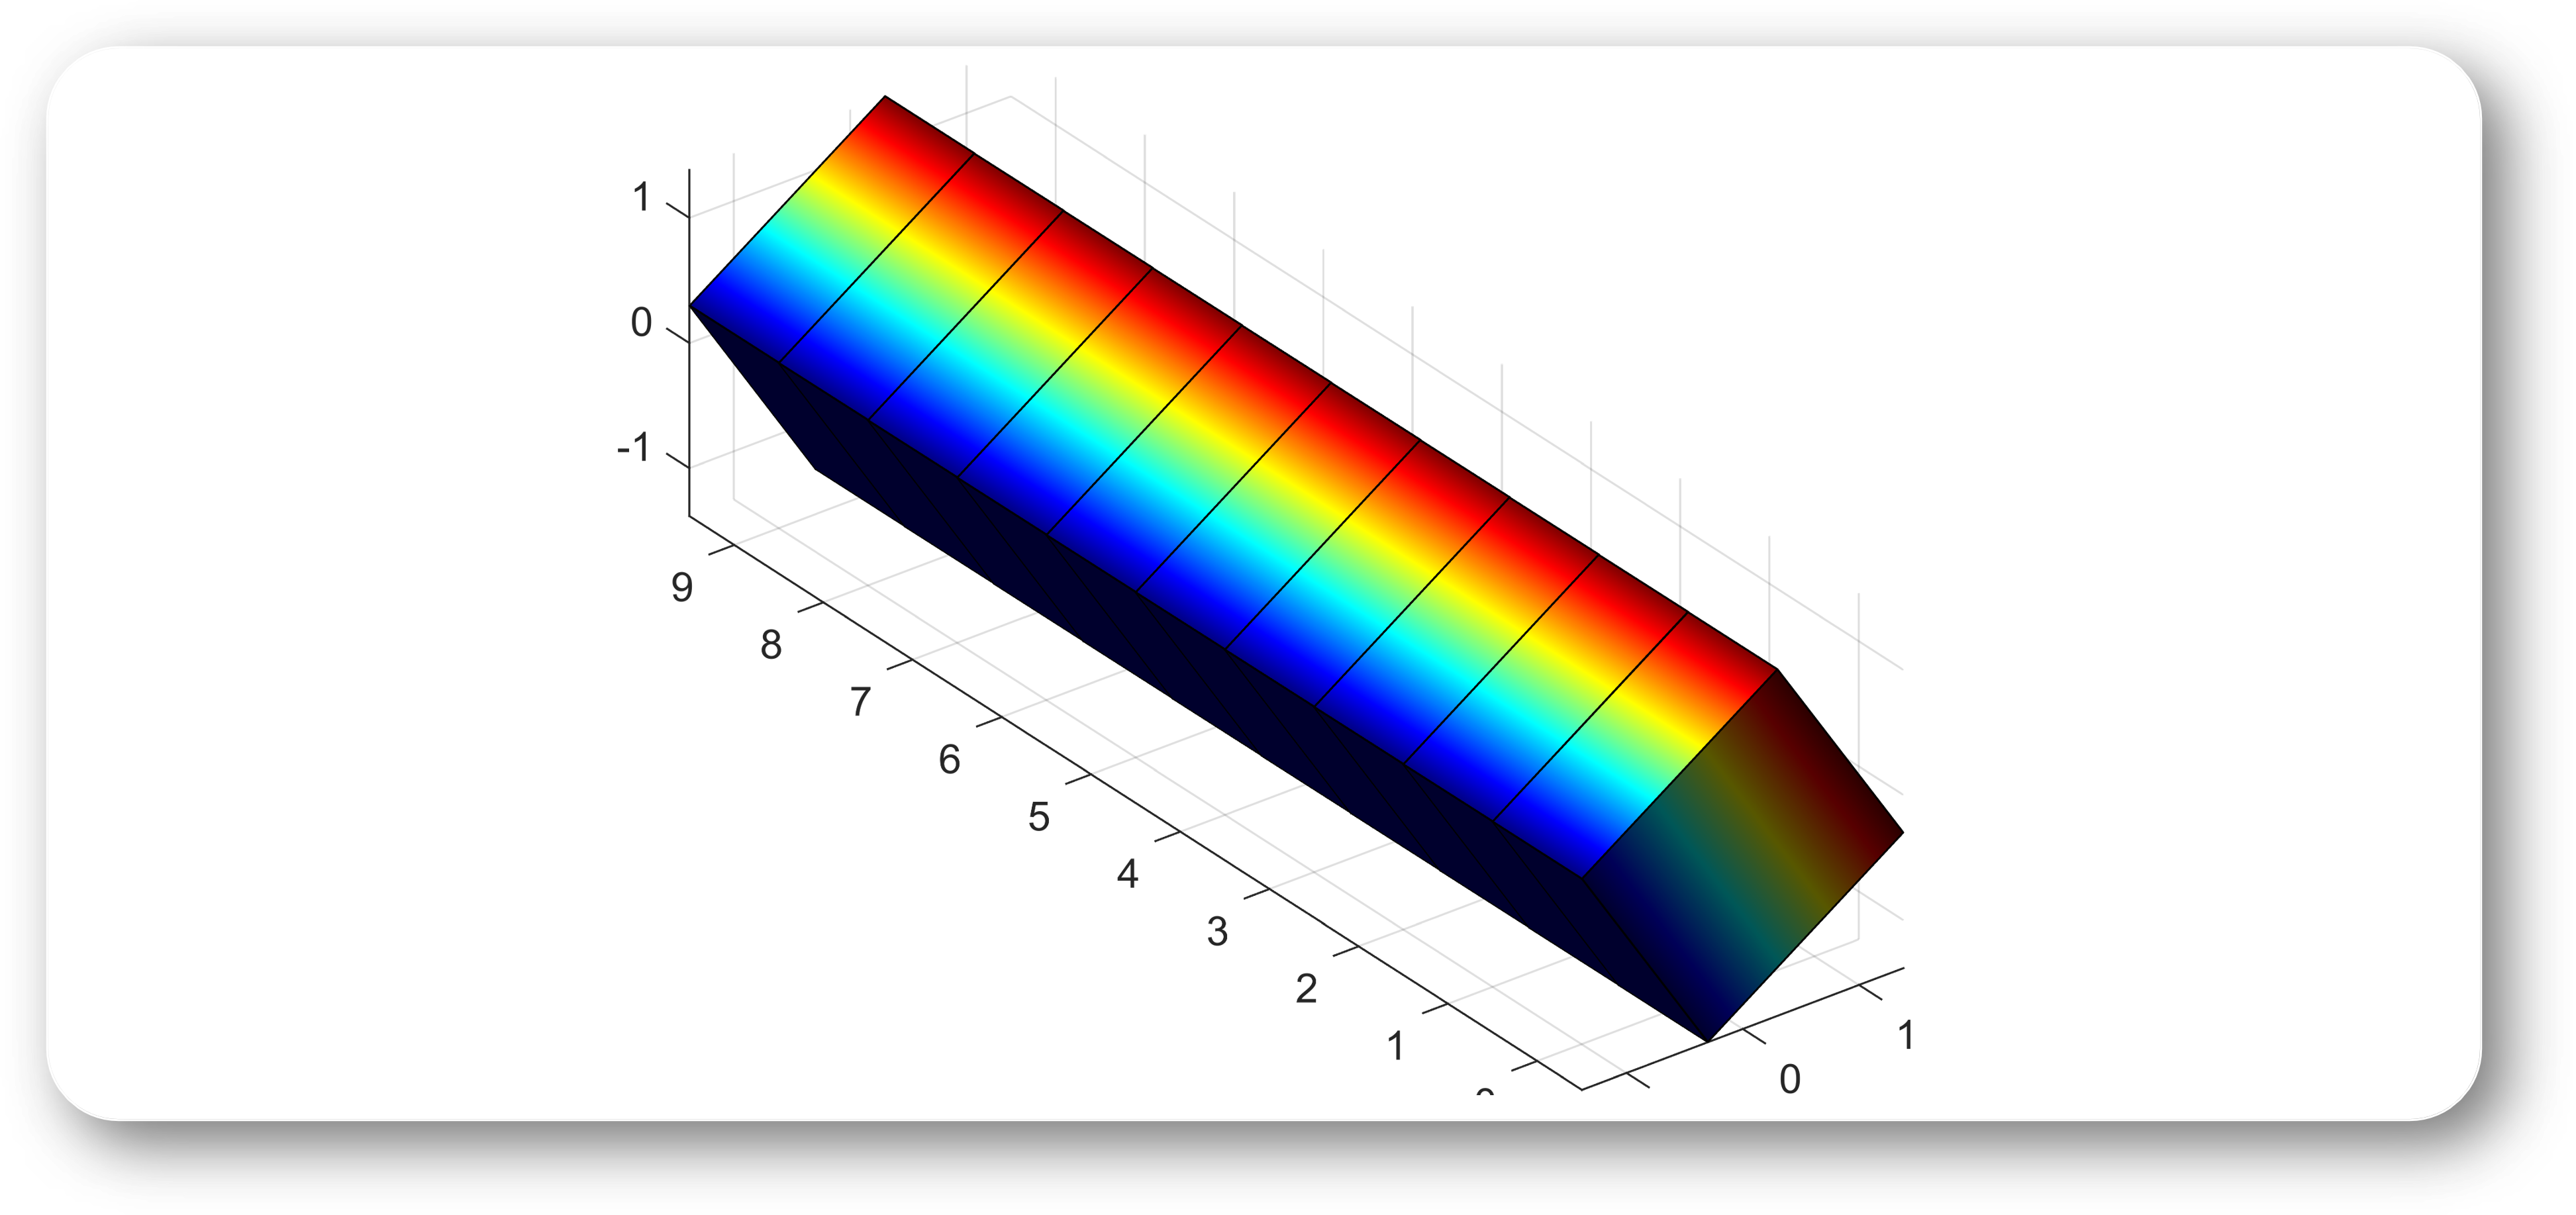
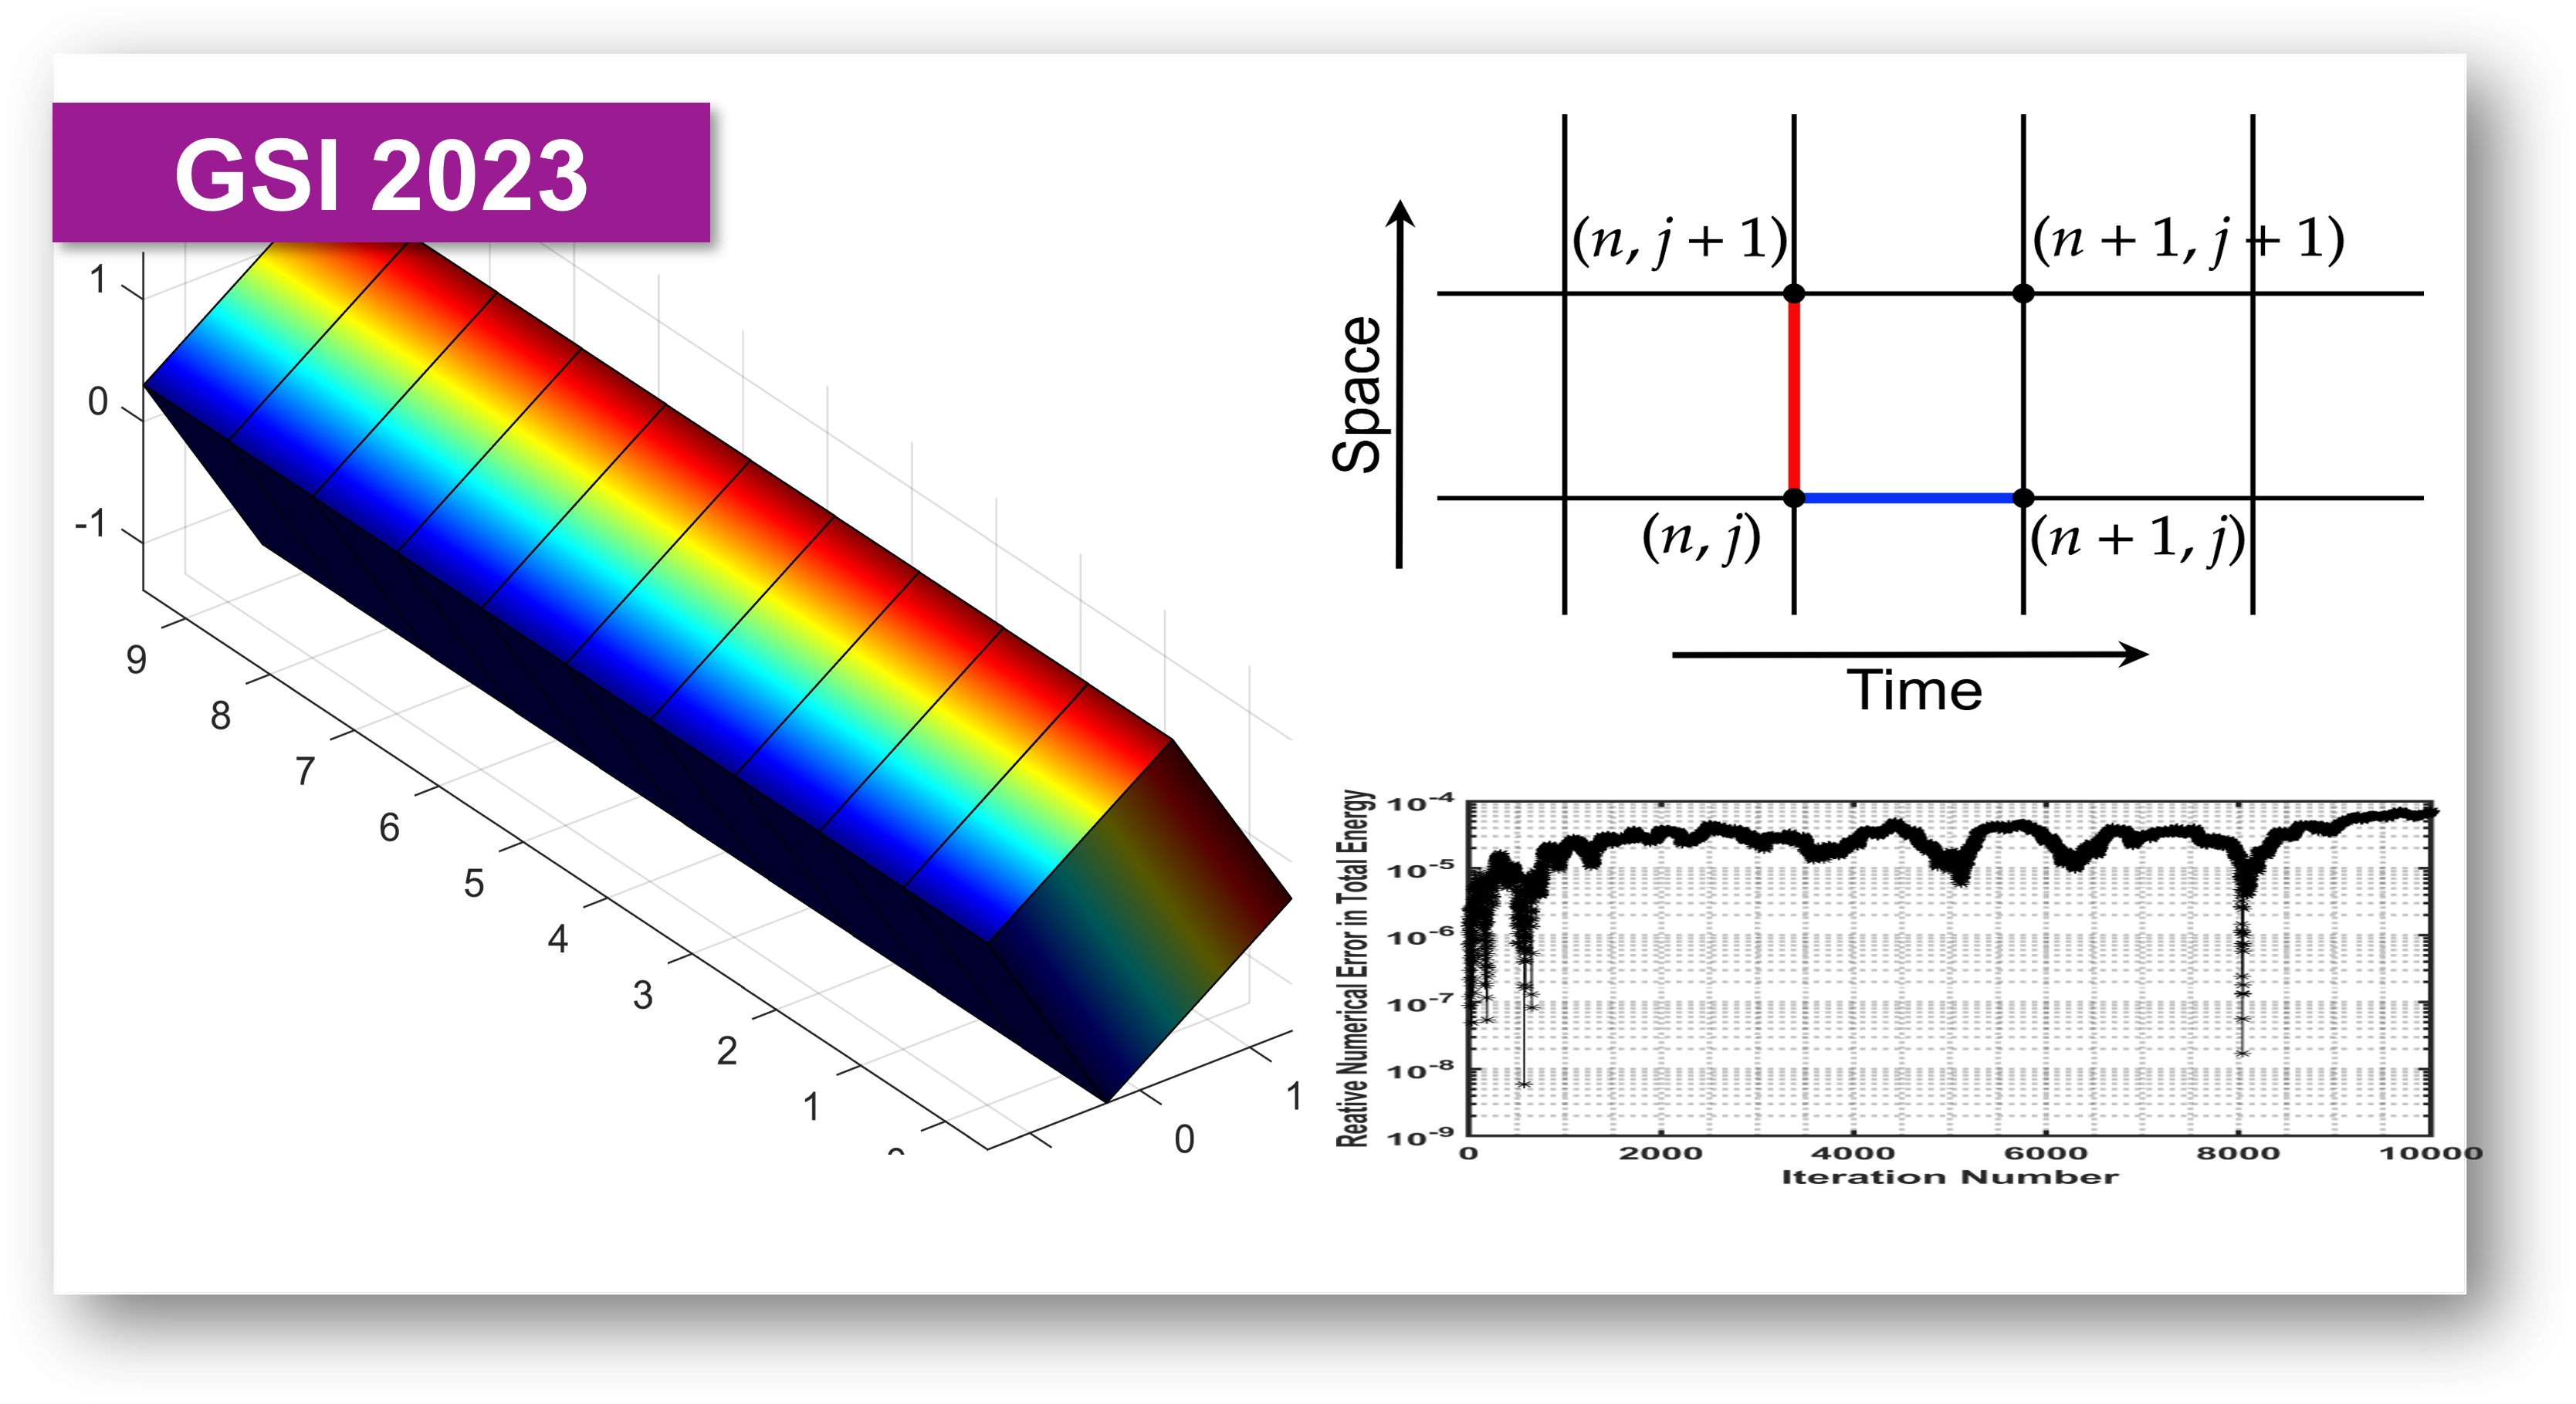
20260604

diff --git a/publications.html b/publications.html
@@ -84,13 +84,12 @@ Tianzhi Li, François Gay-Balmaz, Donghua Shi, and Jinzhi Wang<br /></p>
 <p>We introduce stochastic variational principles for stochastic unconstrained and stochastic nonholonomically constrained systems based on Hamel's formalism. An interesting example of the stochastic rolling disk is given to demonstrate the effectivness of the proposed approach.</p>
 </td></tr></table>
 <table class="imgtable"><tr><td>
-<img src="pictures/beam.png" alt="alt text" width="298px" height="165px" />&nbsp;</td>
+<img src="pictures/UKF-Beam.png" alt="alt text" width="298px" height="165px" />&nbsp;</td>
 <td align="left"><p><a href="https://doi.org/10.1007/978-3-031-38299-4_7"><b>Multisymplectic Unscented Kalman Filter for Geometrically Exact Beams</b></a><br />
 Tianzhi Li and Jinzhi Wang<br /></p>
 <p>In: Nielsen, F., Barbaresco, F. (eds) <b>Geometric Science of Information</b> (GSI 2023), Saint-Malo, France. Lecture Notes in Computer Science, vol 14072. Springer, Cham, 2023.<br />
 <a href="https://doi.org/10.1007/978-3-031-38299-4_7">[Paper Link]</a><br /></p>
-<p>We propose a geometric estimation algorithm for geometrically exact beams based on geometric mechanics and classical field theory. 
-</p>
+<p>We propose a geometric estimation algorithm for geometrically exact beams based on geometric mechanics and classical field theory.</p>
 </td></tr></table>
 <table class="imgtable"><tr><td>
 <img src="pictures/CCC2024.png" alt="alt text" width="298px" height="165px" />&nbsp;</td>